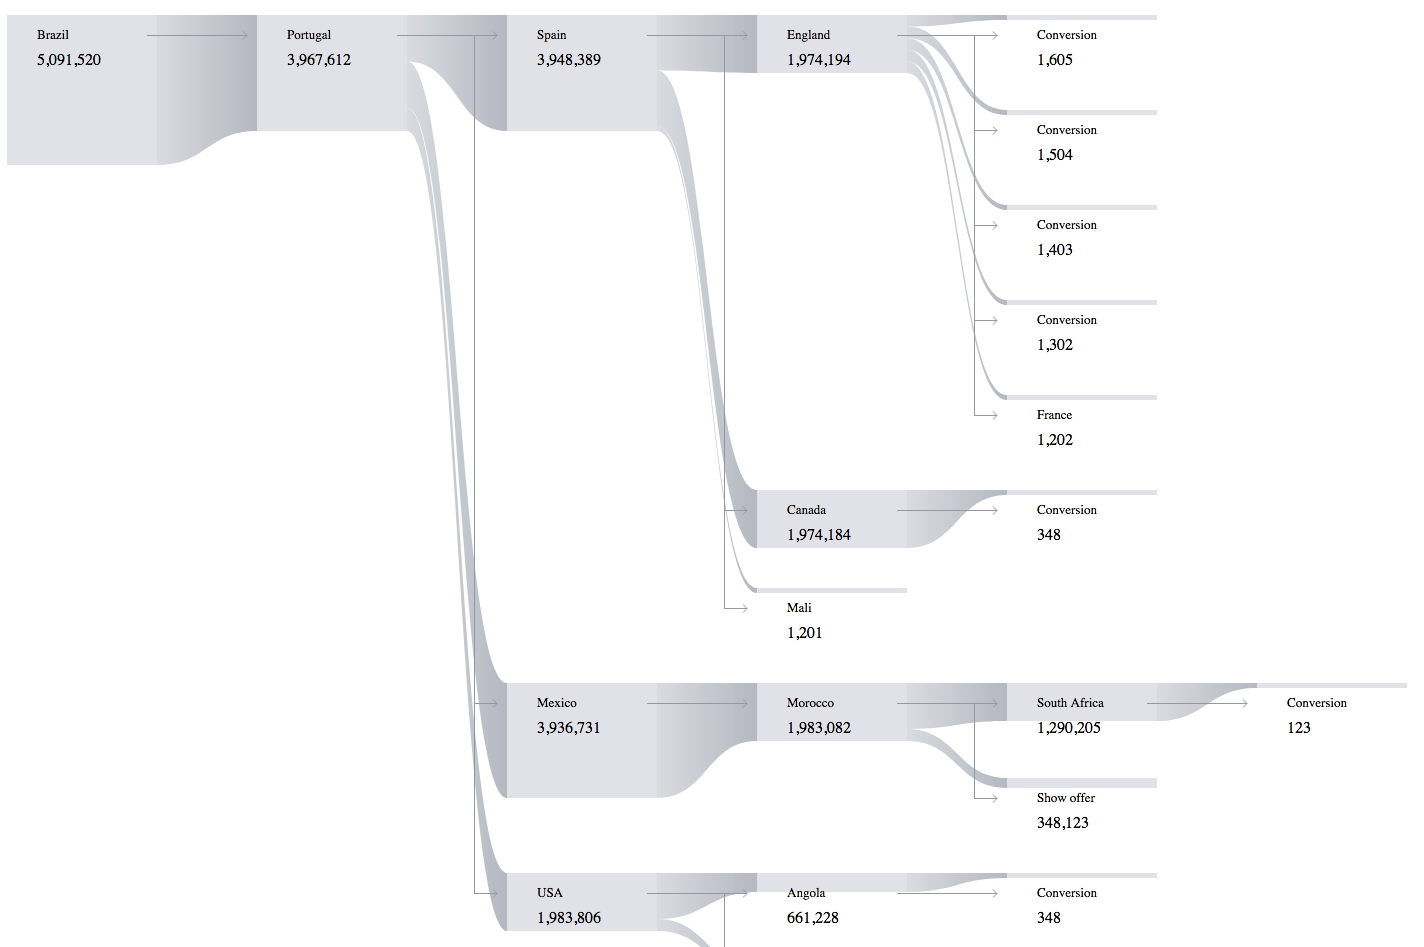
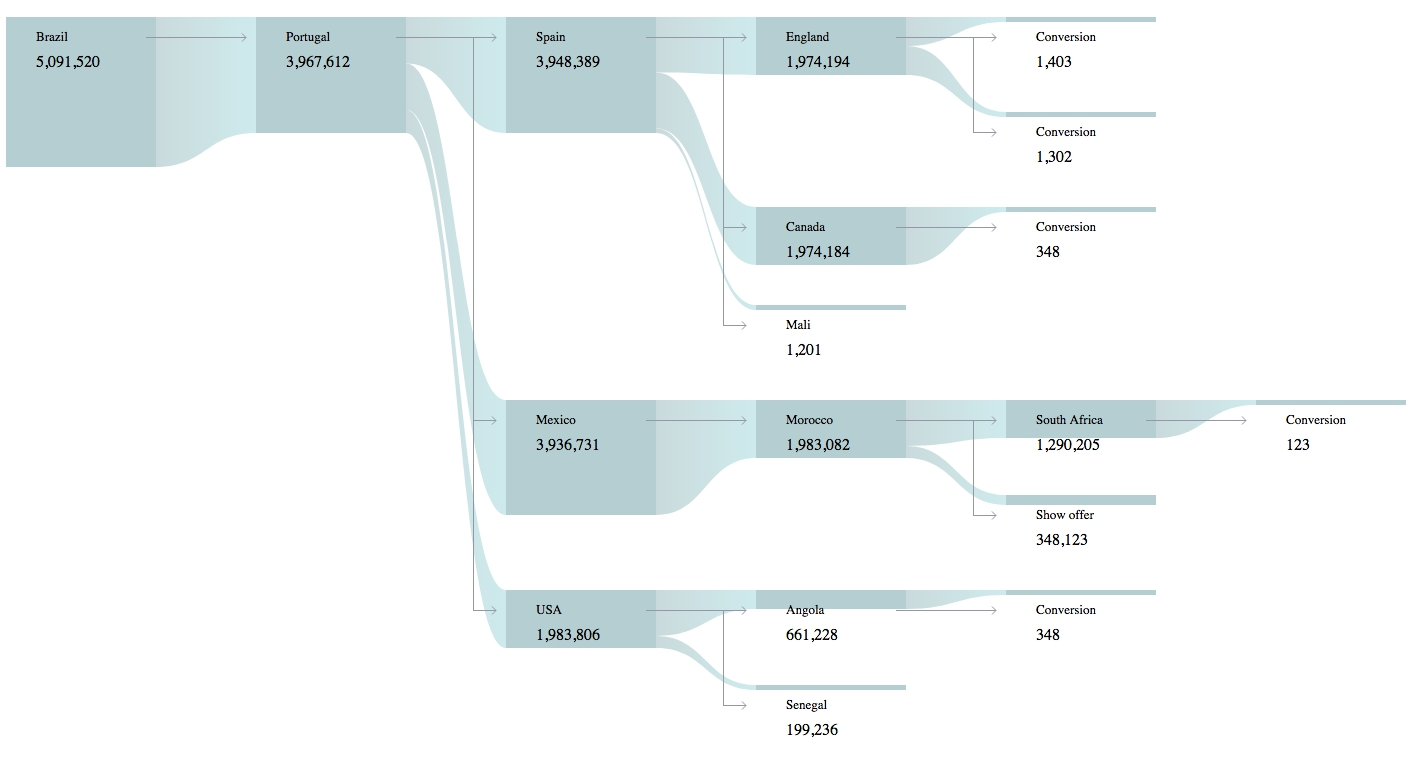
custom node component, custom classes, more examples in storybook

Changed region(s): [[0.0, 0.0, 0.9951, 1.0], [0.6841, 0.395, 0.8085, 0.4861], [0.5597, 0.4557, 0.5908, 0.4861]]

diff --git a/src/components/react-sankey.component.jsx b/src/components/react-sankey.component.jsx
@@ -4,7 +4,7 @@ import { createTree, getTreeNodes, getTreePaths, getNodeBranchHeight } from '../
 
 import './react-sankey.component.scss';
 
-const chartConfig = {
+const defaultChartConfig = {
   padding: { top: 10, right: 0, bottom: 10, left: 0 },
   node: {
     width: 150,
@@ -25,11 +25,14 @@ export function formatNumber(value) {
 
 class ReactSankey extends React.Component {
 
-  static renderNodeArrows(node) {
+  renderNodeArrows(node) {
+    const chartConfig = this.getConfig();
+    const className = this.props.arrowClass ? this.props.arrowClass : 'qb-node-arrow';
+
     if (node.isFirstChild && node.isLastChild) {
       return (
         <path
-          className="qb-arrow"
+          className={className}
           d={`
             M${-10} ${20.5} h-${chartConfig.link.width}
             M${-10} ${20.5} l${-4} ${-4}
@@ -42,7 +45,7 @@ class ReactSankey extends React.Component {
     if (node.isFirstChild) {
       return (
         <path
-          className="qb-arrow"
+          className={className}
           d={`
             M${-10} ${20.5} h-${chartConfig.link.width}
             M${-10} ${20.5} l${-4} ${-4}
@@ -56,7 +59,7 @@ class ReactSankey extends React.Component {
     if (node.isLastChild) {
       return (
         <path
-          className="qb-arrow"
+          className={className}
           d={`
             M${-10} ${20.5} h-${parseInt(chartConfig.link.width / 3, 10) - 10}
             M${-10} ${20.5} l${-4} ${-4}
@@ -68,7 +71,7 @@ class ReactSankey extends React.Component {
 
     return (
       <path
-        className="qb-arrow"
+        className={className}
         d={`
           M${-10} ${20.5} h-${parseInt(chartConfig.link.width / 3, 10) - 10}
           M${-10} ${20.5} l${-4} ${-4}
@@ -79,11 +82,17 @@ class ReactSankey extends React.Component {
     );
   }
 
-  static renderPath(path) {
-    return <path key={path.id} className="qb-link" d={path.d} />;
+  renderPath(path) {
+    const className = this.props.linkClass ? this.props.linkClass : 'qb-link';
+    return <path key={path.id} className={className} d={path.d} />;
   }
 
-  static renderNode(node, hasArrows) {
+  renderNode(chartConfig, node) {
+
+    if (this.props.customNode) {
+      return this.props.customNode(chartConfig, node)
+    }
+
     return (
       <g key={node.id} className="qb-node" transform={`translate(${node.x},${node.y})`}>
         <rect height={node.height} width={chartConfig.node.width} />
@@ -91,13 +100,28 @@ class ReactSankey extends React.Component {
         <text className="qb-value" x={30} y={50}>
           {`${formatNumber(node.value)}`}
         </text>
-
-        {chartConfig.link.width >= 60 && hasArrows && ReactSankey.renderNodeArrows(node)}
       </g>
     );
   }
 
+  renderArrow(node) {
+    if (node.id == this.props.rootID) {
+      return null;
+    }
+
+    return (
+      <g key={node.id} className="qb-arrow" transform={`translate(${node.x},${node.y})`}>
+        {this.renderNodeArrows(node)}
+      </g>
+    );
+  }
+
+  getConfig() {
+    return this.props.chartConfig ? this.props.chartConfig : defaultChartConfig;
+  }
+
   render() {
+    const chartConfig = this.getConfig();
     const tree = createTree(chartConfig, this.props.rootID, this.props.links, this.props.nodes, this.props.rootID);
     const nodes = getTreeNodes(chartConfig, tree);
     const pathes = getTreePaths(chartConfig, this.props.links, nodes);
@@ -120,12 +144,13 @@ class ReactSankey extends React.Component {
       <svg width={chartWidth + left + right} height={chartHeight + top + bottom}>
         <g transform={`translate(${left},${top})`}>
 
-          {pathes.map(path => ReactSankey.renderPath(path))}
-          {nodes.map(node => ReactSankey.renderNode(node, this.props.hasArrows))}
+          {pathes.map(path => this.renderPath(path))}
+          {nodes.map(node => this.renderNode(chartConfig, node))}
+          {chartConfig.link.width >= 60 && this.props.hasArrows && nodes.map(node => this.renderArrow(node))}
 
           <linearGradient id="linear-gradient">
-            <stop offset="0%" stopColor="#dee0e4" />
-            <stop offset="100%" stopColor="#bdc0c7" />
+            <stop offset="0%" stopColor="#D1DFE0" />
+            <stop offset="100%" stopColor="#D5EDEF" />
           </linearGradient>
         </g>
       </svg>

diff --git a/stories/react-sankey.story.jsx b/stories/react-sankey.story.jsx
@@ -12,12 +12,11 @@ const nodes = {
   '1':  createNode('Portugal', 3967612, 1),
   '2':  createNode('Spain', 3948389, 2),
   '3':  createNode('England', 1974194, 3),
-  '4':  createNode('France', 1202, 4),
   '5':  createNode('Canada', 1974184, 5),
   '6':  createNode('Conversion', 348, 6),
   '7':  createNode('Mexico', 3936731, 7),
   '8':  createNode('USA', 1983806, 8),
-  '9':  createNode('Angola', 661228, 9),
+  'node_id_can_be_string':  createNode('Angola', 661228, 'node_id_can_be_string'),
   '10': createNode('Senegal', 199236, 10),
   '11': createNode('Conversion', 348, 11),
   '12': createNode('Morocco', 1983082, 12),
@@ -26,9 +25,7 @@ const nodes = {
   '15': createNode('Conversion', 123, 15),
   '16': createNode('Mali', 1201, 16),
   '17': createNode('Conversion', 1302, 17),
-  '18': createNode('Conversion', 1403, 18),
-  '19': createNode('Conversion', 1504, 19),
-  '20': createNode('Conversion', 1605, 20),
+  '18': createNode('Conversion', 1403, 18)
 };
 
 const links = [
@@ -39,20 +36,31 @@ const links = [
   createLink(2, 3),
   createLink(2, 5),
   createLink(2, 16),
-  createLink(3, 4),
   createLink(3, 17),
   createLink(3, 18),
-  createLink(3, 19),
-  createLink(3, 20),
   createLink(5, 6),
   createLink(7, 12),
-  createLink(8, 9),
+  createLink(8, 'node_id_can_be_string'),
   createLink(8, 10),
-  createLink(9, 11),
+  createLink('node_id_can_be_string', 11),
   createLink(12, 13),
   createLink(12, 14),
   createLink(13, 15)
 ];
+
+const chartConfig = {
+  padding: { top: 10, right: 0, bottom: 10, left: 0 },
+  node: {
+    width: 200,
+    maxHeight: 100,
+    minHeight: 55,
+    rectMinHeight: 5,
+    paddingBottom: 10
+  },
+  link: {
+    width: 65
+  }
+};
 
 storiesOf('React sankey', module)
   .add('Default', () => (
@@ -61,5 +69,74 @@ storiesOf('React sankey', module)
       nodes={nodes}
       links={links}
       hasArrows={true}
+    />
+  ))
+  .add('Disabled arrows', () => (
+    <ReactSankey
+      rootID={0}
+      nodes={nodes}
+      links={links}
+      hasArrows={false}
+    />
+  ))
+  .add('Custom nodes', () => (
+    <div>
+      <ReactSankey
+        rootID={0}
+        nodes={nodes}
+        links={links}
+        hasArrows={true}
+        customNode={(chartConfig, node) => {
+          return (
+            <g key={node.id} transform={`translate(${node.x},${node.y})`}>
+              <rect height={node.height} width={chartConfig.node.width} style={{ stroke: '#ff5252', fill: 'url(#custom-linear-gradient)', strokeWidth: '1px' }} />
+              <text x={chartConfig.node.width / 2} y={node.height / 2} style={{ fontSize: '20px', fill: '#b57272', textAnchor: 'middle', alignmentBaseline: 'central' }}>{`${node.title}`}</text>
+            </g>
+          )
+        }}
+      />
+      <svg width={0} height={0}>
+        <linearGradient id="custom-linear-gradient">
+          <stop offset="0%" stopColor="#ecc1c1" />
+          <stop offset="100%" stopColor="#D5EDEF" />
+        </linearGradient>
+      </svg>
+    </div>
+  ))
+  .add('Custom arrow and link classes', () => (
+    <div>
+      <style dangerouslySetInnerHTML={{__html: `
+          .custom-arrow-class {
+            stroke: red;
+            stroke-width: 1px
+          }
+          .custom-link-class {
+            fill: url(#custom-linear-gradient);
+          }
+        `}}
+      />
+      <ReactSankey
+        rootID={0}
+        nodes={nodes}
+        links={links}
+        hasArrows={true}
+        arrowClass="custom-arrow-class"
+        linkClass="custom-link-class"
+      />
+      <svg width={0} height={0}>
+        <linearGradient id="custom-linear-gradient">
+          <stop offset="0%" stopColor="#ecc1c1" />
+          <stop offset="100%" stopColor="#D5EDEF" />
+        </linearGradient>
+      </svg>
+    </div>
+  ))
+  .add('Custom chart config', () => (
+    <ReactSankey
+      rootID={0}
+      nodes={nodes}
+      links={links}
+      hasArrows={true}
+      chartConfig={chartConfig}
     />
   ));

diff --git a/src/helpers/react-sankey.js b/src/helpers/react-sankey.js
@@ -21,7 +21,7 @@ function reconcileNodeHeight(node, chartConfig, maxValue) {
 
 function reconcileNodeChildren(node, chartConfig, rootID, links, nodes, sourceId, level) {
   const children = links
-    .filter(link => parseInt(link.sourceId, 10) === parseInt(sourceId, 10))
+    .filter(link => link.sourceId == sourceId)
     .map(link => ({ ...createTree(chartConfig, rootID, links, nodes, link.targetId, level + 1), parent: node })); // eslint-disable-line no-use-before-define
 
   return {
@@ -104,8 +104,8 @@ export function getTreeNodes(chartConfig, tree) {
 // Returns d attribute to build proper path between nodes
 export function getTreePaths(chartConfig, links, nodes) {
   return links.map((link) => {
-    const sourceNode = nodes.find(node => parseInt(node.id, 10) === parseInt(link.sourceId, 10));
-    const targetNode = nodes.find(node => parseInt(node.id, 10) === parseInt(link.targetId, 10));
+    const sourceNode = nodes.find(node => node.id == link.sourceId);
+    const targetNode = nodes.find(node => node.id == link.targetId);
 
     if (!sourceNode || !targetNode) {
       throw new Error('should never happen');
@@ -115,7 +115,7 @@ export function getTreePaths(chartConfig, links, nodes) {
     const { x: x2, y: y2 } = targetNode;
 
     const targetsHeight = sourceNode.children.reduce((height, child) => height + child.height, 0);
-    const targetIndex = sourceNode.children.findIndex(child => parseInt(child.id, 10) === parseInt(targetNode.id, 10));
+    const targetIndex = sourceNode.children.findIndex(child => child.id == targetNode.id);
     const curvesStartPositionsPercents = sourceNode.children.map(child => (child.height * 100) / targetsHeight);
 
     // Get y of first point of path

diff --git a/src/components/react-sankey.component.scss b/src/components/react-sankey.component.scss
@@ -1,5 +1,5 @@
 .qb-node rect {
-  fill: #e5e6ea;
+  fill: #bdd4d6;
   shape-rendering: crispEdges;
 }
 
@@ -8,17 +8,19 @@
     font-size: 13px;
   }
 
-  .qb-arrow {
-    stroke: #9ea2af;
-    stroke-width: 1px
-  }
-
   .qb-value {
     font-size: 16px;
 
     tspan {
       fill: #eaeaea;
     }
+  }
+}
+
+.qb-arrow {
+  .qb-node-arrow {
+    stroke: #9ea2af;
+    stroke-width: 1px
   }
 }
 

diff --git a/.storybook/config.js b/.storybook/config.js
@@ -5,7 +5,7 @@ setOptions({
   name: 'Sankey chart storybook',
   url: 'http://unbug.ru/',
   goFullScreen: false,
-  showLeftPanel: false,
+  showLeftPanel: true,
   showDownPanel: false,
   showSearchBox: false,
   downPanelInRight: false,

diff --git a/README.md b/README.md
@@ -5,10 +5,11 @@ Sankey diagramm. **Still under active development.**
 
 ![screenshot](screenshot.jpg?raw=true "Example")
 
-## TODO
+See more examples in `.storybook` folder.
 
-*   Custom node component
-*   Style customization
+##TODO
+*   Add lint
+*   Some improvements
 
 ## Installation
 
@@ -68,7 +69,7 @@ Sankey diagramm. **Still under active development.**
       createLink(13, 15)
     ];
         
-    class ReactSankey extends React.Component {
+    class App extends React.Component {
         
         render() {
             <ReactSankey
